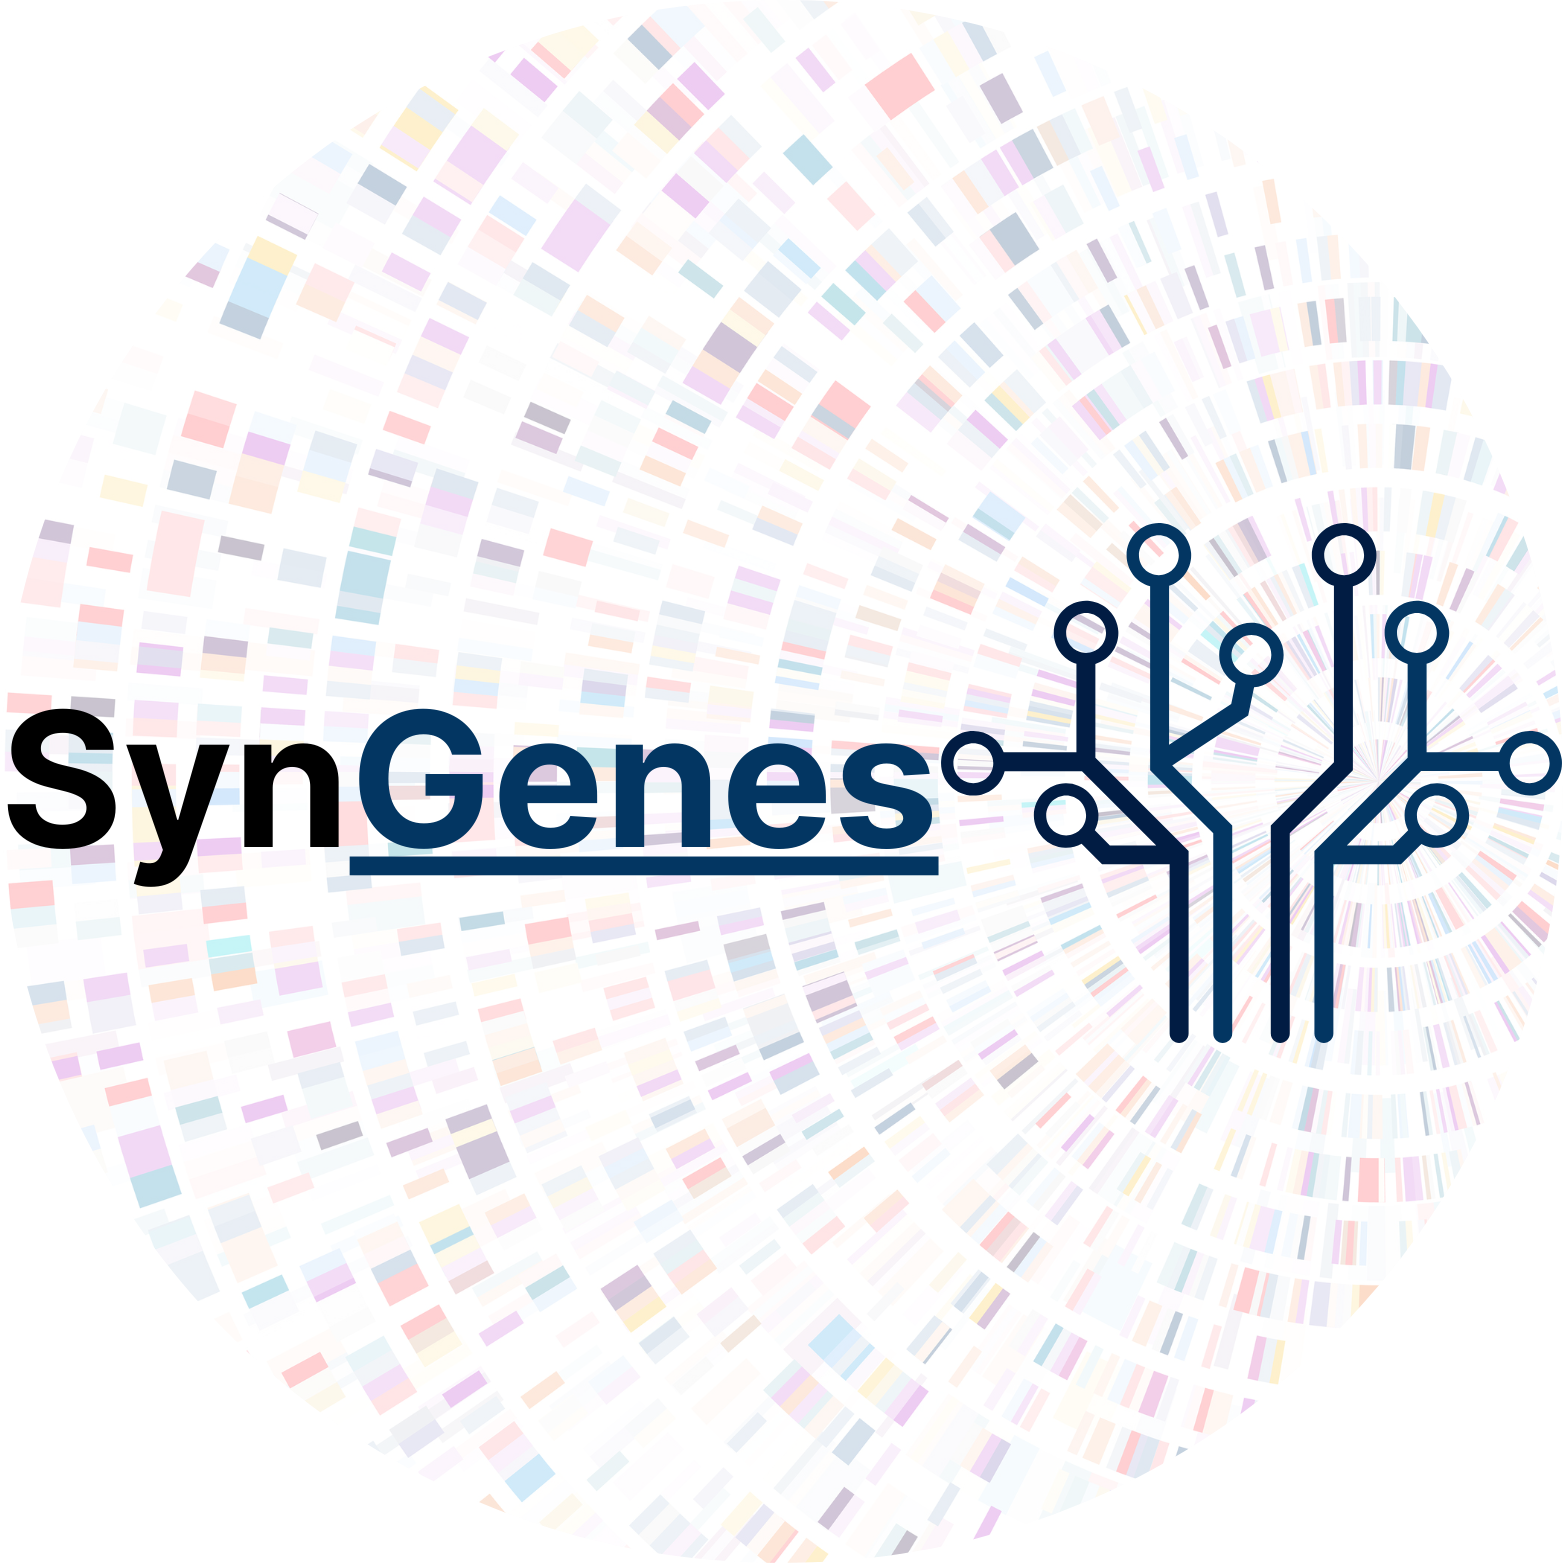
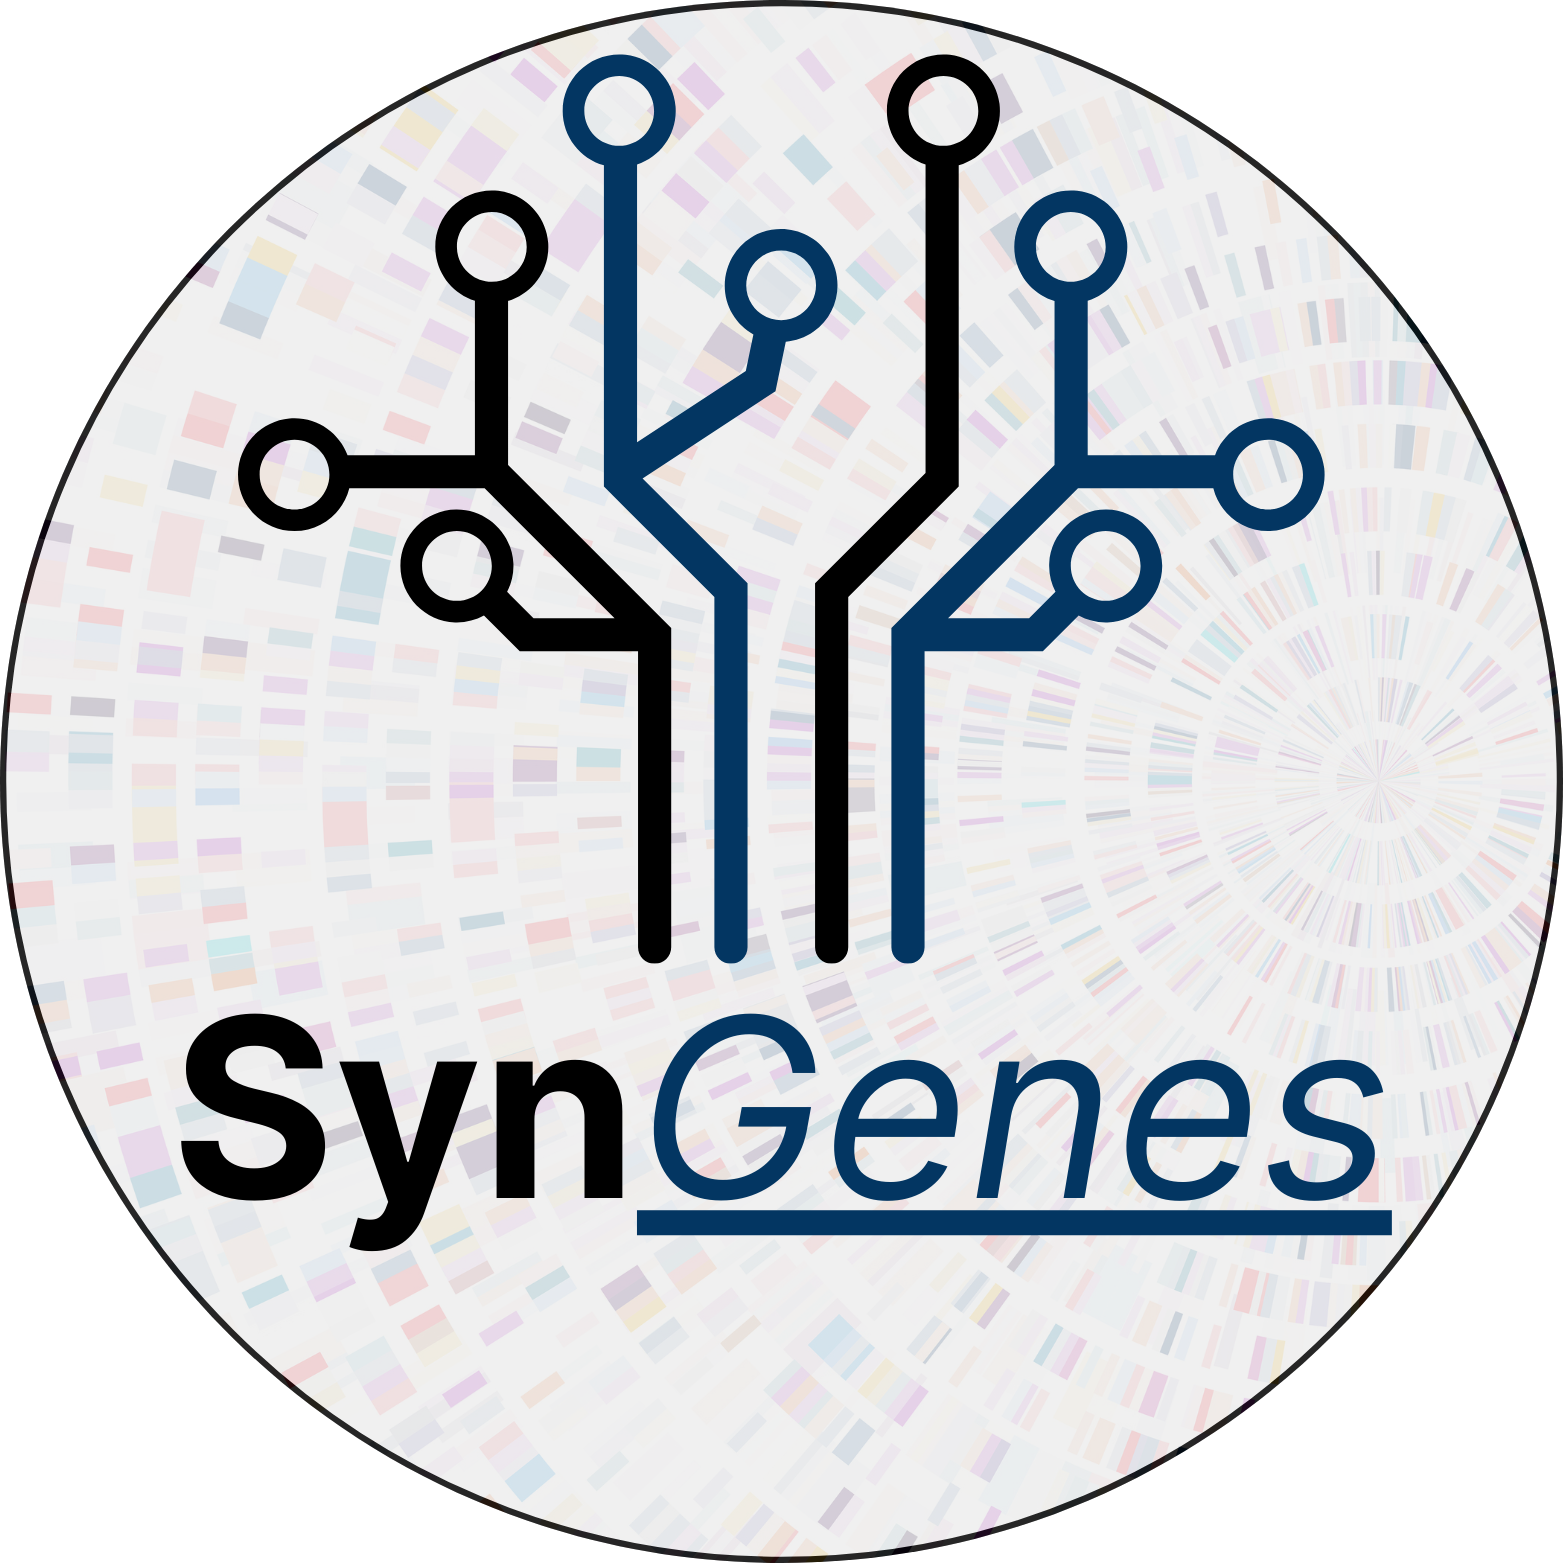
Add files via upload

diff --git a/docs/index.html b/docs/index.html
@@ -29,6 +29,15 @@
             <div class="text-center h4 mt-2 mb-2">Developed by</div>
             <div class="text-center h5 mt-2 mb-2"><span class="mark"><b><a href="https://twitter.com/lprabelo" target="_blank">Luan Rabelo</a></b> and <b><a href="https://twitter.com/mvallinoto01" target="_blank">Marcelo Vallinoto</a></b></span></div>
             <div class="text-center h5 mt-2 mb-2">v0.9.9 beta <i style="cursor: pointer;" data-bs-toggle="modal" data-bs-target="#About" class="fa-sharp fa-solid fa-circle-info fa-1x"></i>&nbsp;<i  style="cursor: pointer;" data-bs-toggle="modal" data-bs-target="#Donate" class="fa-solid fa-1x fa-mug-hot"></i></div>
+            <div class="row row-cols-1 text-center container d-grid-4 mx-auto">
+                <div class="col-12">
+                <img alt="GitHub" src="https://img.shields.io/github/license/luanrabelo/SynGenes?color=A0C49D&logoColor=000000&style=for-the-badge&namedLogo=readthedocs">
+                <img alt="GitHub Repo stars" src="https://img.shields.io/github/stars/luanrabelo/SynGenes?color=A0C49D&style=for-the-badge">
+                <img alt="GitHub release (latest by date)" src="https://img.shields.io/github/v/release/luanrabelo/SynGenes?color=A0C49D&style=for-the-badge">
+                <img alt="GitHub last commit" src="https://img.shields.io/github/last-commit/luanrabelo/SynGenes?color=A0C49D&style=for-the-badge">
+                <img src="https://img.shields.io/endpoint?url=https://hits.dwyl.com/luanrabelo/SynGenes.json?color=A0C49D&style=for-the-badge&label=Users" alt="Users" />
+                </div>
+            </div>
             <!-- <div class="text-center h5 mt-2 mb-2">Cite us: <i>aaaaaaaaaaaaaaaaaaaaaaaaaaaaaaaaaaaaaaaaaaaaaaaaaaaaaaaaaaaaaaaaaaa</i></div> -->
             
             <div class="d-grid gap-2 col-6 mx-auto mt-5">

diff --git a/SynGenes/SynGenes.py b/SynGenes/SynGenes.py
@@ -1,0 +1,164 @@
+import os 
+import sys
+import time
+
+class TerminalColors:
+            Header      = '\033[95m'
+            Blue        = '\033[94m'
+            Cyan        = '\033[96m'
+            Green       = '\033[92m'
+            Warning     = '\033[93m'
+            Fail        = '\033[91m'
+            End         = '\033[0m'
+            Bold        = '\033[1m'
+            Underline   = '\033[4m'
+try:
+    import requests
+    print(f"{TerminalColors.Green}Module 'Requests' found and imported!{TerminalColors.End}")
+except ImportError:
+    print(f"{TerminalColors.Fail}Module 'Requests' not found, please install it with: python3 -m pip install -U requests{TerminalColors.End}")
+    print(f"{TerminalColors.Warning}{TerminalColors.Underline}Do you want to install it now? (yes/no){TerminalColors.End}")
+    Choice = str(input())
+    if Choice.lower() == 'y' or Choice.lower() == 'yes':
+        os.system('python3 -m pip install -U requests')
+        print(f"{TerminalColors.Green}Module 'Requests' installed successfully!{TerminalColors.End}")
+        try:
+            import requests
+            print(f"{TerminalColors.Green}Module 'Requests' found and imported!{TerminalColors.End}")
+        except ImportError:
+            print(f"{TerminalColors.Fail}Module 'Requests' not found, please reinstall it with: python3 -m pip install -U requests{TerminalColors.End}")
+            sys.exit()
+    else:
+        print(f"{TerminalColors.Fail}Installation 'Requests' aborted!{TerminalColors.End}")
+
+try:
+    import pandas as pd
+    print(f"{TerminalColors.Green}Module 'Pandas' found and imported!{TerminalColors.End}")
+except ImportError:
+    print(f"{TerminalColors.Fail}Module 'Pandas' not found, please install it with: python3 -m pip install -U pandas{TerminalColors.End}")
+    print(f"{TerminalColors.Warning}{TerminalColors.Underline}Do you want to install it now? (yes/no){TerminalColors.End}")
+    Choice = str(input())
+    if Choice.lower() == 'y' or Choice.lower() == 'yes':
+        os.system('python3 -m pip install -U pandas')
+        print(f"{TerminalColors.Green}Module 'Pandas' installed successfully!{TerminalColors.End}")
+        try:
+            import pandas as pd
+            print(f"{TerminalColors.Green}Module 'Pandas' found and imported!{TerminalColors.End}")
+        except ImportError:
+            print(f"{TerminalColors.Fail}Module 'Pandas' not found, please reinstall it with: python3 -m pip install -U pandas{TerminalColors.End}")
+            sys.exit()
+    else:
+        print(f"{TerminalColors.Fail}Installation 'Pandas' aborted!{TerminalColors.End}")
+
+class SynGenes:
+    dataLink = "https://raw.githubusercontent.com/luanrabelo/SynGenes/stable/dbSynGenes/SynGenes.xlsx" # Link to SynGenes database in GitHub repository (stable branch)
+    cwdPath  = os.getcwd() # Current working directory path (where the script is running)
+    class TerminalColors:
+            Header      = '\033[95m'
+            Blue        = '\033[94m'
+            Cyan        = '\033[96m'
+            Green       = '\033[92m'
+            Warning     = '\033[93m'
+            Fail        = '\033[91m'
+            End         = '\033[0m'
+            Bold        = '\033[1m'
+            Underline   = '\033[4m'
+    
+    def __init__(self):
+        """
+        SynGenes: A Python class to download and update SynGenes database.
+
+        Parameters
+        ----------
+
+        """
+        
+        if not os.path.exists(f'{SynGenes.cwdPath}/SynGenes/SynGenes.xlsx') or not os.path.isfile(f'{SynGenes.cwdPath}/SynGenes/SynGenes.xlsx'):
+            print(f"{SynGenes.TerminalColors.Warning}{SynGenes.TerminalColors.Bold}SynGenes database not found in {SynGenes.cwdPath}{SynGenes.TerminalColors.End}!\n")
+            print(f"{SynGenes.TerminalColors.Warning}{SynGenes.TerminalColors.Bold}Creating folder 'SynGenes' in {SynGenes.cwdPath}{SynGenes.TerminalColors.End}")
+            try:
+                os.makedirs(f'{SynGenes.cwdPath}/SynGenes', exist_ok=True, mode=0o777)
+                print(f"{SynGenes.TerminalColors.Green}{SynGenes.TerminalColors.Bold}Folder 'SynGenes' created successfully ({time.strftime('%Y/%m/%d - %H:%M:%S')})!\n{SynGenes.TerminalColors.End}")
+            except:
+                print(f"{SynGenes.TerminalColors.Fail}{SynGenes.TerminalColors.Bold}Error creating folder 'SynGenes'! Verify if you have permission to create folders in this directory.{SynGenes.TerminalColors.End}")
+                sys.exit()
+            print(f'{SynGenes.TerminalColors.Warning}{SynGenes.TerminalColors.Bold}Downloading SynGenes database from https://github.com/luanrabelo/SynGenes, please wait...{SynGenes.TerminalColors.End}')
+            FileName = f'{SynGenes.cwdPath}/SynGenes/SynGenes.xlsx'
+            download = requests.get(SynGenes.dataLink, stream=True)
+            if download.ok:
+                with open(FileName, 'wb') as f:
+                    for chunk in download.iter_content(chunk_size=1024*16):
+                        if chunk:
+                            f.write(chunk)
+                            f.flush()
+                            os.fsync(f.fileno())
+                print(f'{SynGenes.TerminalColors.Green}{SynGenes.TerminalColors.Bold}Downloaded SynGenes database successfully ({time.strftime("%Y/%m/%d - %H:%M:%S")})!\n{SynGenes.TerminalColors.End}')
+            else:
+                print(f'{SynGenes.TerminalColors.Fail}{SynGenes.TerminalColors.Bold}Download SynGenes database failed: status code {download.status_code} - {download.text}{SynGenes.TerminalColors.End}')
+                sys.exit()
+
+    def updateSynGenes(self):
+        if os.path.exists(f'{SynGenes.cwdPath}/SynGenes/SynGenes.xlsx') or os.path.isfile(f'{SynGenes.cwdPath}/SynGenes/SynGenes.xlsx'):
+            print(f"{SynGenes.TerminalColors.Warning}{SynGenes.TerminalColors.Bold}SynGenes database found in {SynGenes.cwdPath}{SynGenes.TerminalColors.End}!\n")
+            print(f"{SynGenes.TerminalColors.Warning}{SynGenes.TerminalColors.Bold}Removing old SynGenes database...{SynGenes.TerminalColors.End}")
+            try:
+                os.remove(f'{SynGenes.cwdPath}/SynGenes/SynGenes.xlsx')
+                print(f"{SynGenes.TerminalColors.Green}{SynGenes.TerminalColors.Bold}Old SynGenes database removed successfully!\n{SynGenes.TerminalColors.End}")
+            except:
+                print(f"{SynGenes.TerminalColors.Fail}{SynGenes.TerminalColors.Bold}Error removing old SynGenes database! Verify if you have permission to remove files in this directory.{SynGenes.TerminalColors.End}")
+                sys.exit()
+        else:
+            print(f"{SynGenes.TerminalColors.Warning}{SynGenes.TerminalColors.Bold}SynGenes database not found in {SynGenes.cwdPath}{SynGenes.TerminalColors.End}!\n")
+            print(f"{SynGenes.TerminalColors.Warning}{SynGenes.TerminalColors.Bold}Creating folder 'SynGenes' in {SynGenes.cwdPath}{SynGenes.TerminalColors.End}")
+            try:
+                os.makedirs('SynGenes', exist_ok=True, mode=0o777)
+                print(f"{SynGenes.TerminalColors.Green}{SynGenes.TerminalColors.Bold}Folder 'SynGenes' created successfully ({time.strftime('%Y/%m/%d - %H:%M:%S')})!\n{SynGenes.TerminalColors.End}")
+            except:
+                print(f"{SynGenes.TerminalColors.Fail}{SynGenes.TerminalColors.Bold}Error creating folder 'SynGenes'! Verify if you have permission to create folders in this directory.{SynGenes.TerminalColors.End}")
+                sys.exit()
+        print(f'{SynGenes.TerminalColors.Warning}{SynGenes.TerminalColors.Bold}Downloading SynGenes database from https://github.com/luanrabelo/SynGenes, please wait...{SynGenes.TerminalColors.End}')
+        file_name = f'{SynGenes.cwdPath}/SynGenes/SynGenes.xlsx'
+        download = requests.get(SynGenes.dataLink, stream=True)
+        if download.ok:
+            with open(file_name, 'wb') as f:
+                for chunk in download.iter_content(chunk_size=1024*16):
+                    if chunk:
+                        f.write(chunk)
+                        f.flush()
+                        os.fsync(f.fileno())
+            print(f'{SynGenes.TerminalColors.Green}{SynGenes.TerminalColors.Bold}Downloaded SynGenes database successfully ({time.strftime("%Y/%m/%d - %H:%M:%S")})!\n{SynGenes.TerminalColors.End}')
+        else:
+            print(f'{SynGenes.TerminalColors.Fail}{SynGenes.TerminalColors.Bold}Download SynGenes database failed: status code {download.status_code} - {download.text}{SynGenes.TerminalColors.End}')
+            sys.exit()
+
+    def FixGeneName(self, **kwargs):
+        GeneList = []
+        GeneList.clear()
+        FullName  = str(kwargs['geneName'])
+        Organelle = str(kwargs['type'])
+        if Organelle == 'mt':
+            df = pd.DataFrame(pd.read_excel(f'{SynGenes.cwdPath}/SynGenes/SynGenes.xlsx', sheet_name="Mitochondrial", dtype=str)).reset_index()
+        elif Organelle == 'cp':
+            df = pd.DataFrame(pd.read_excel(f'{SynGenes.cwdPath}/SynGenes/SynGenes.xlsx', sheet_name="Chloroplast", dtype=str)).reset_index()
+        else:
+            print(f"{SynGenes.TerminalColors.Fail}{SynGenes.TerminalColors.Bold}Error! Organelle {Organelle} not found in SynGenes database!{SynGenes.TerminalColors.End}")
+            sys.exit()
+        ListFullName  = df['Full Name'].values.tolist()
+        ListShortName = df['Short Name'].values.tolist()
+        print(f"{SynGenes.TerminalColors.Warning}{SynGenes.TerminalColors.Bold}Searching for '{FullName}' in SynGenes database...{SynGenes.TerminalColors.End}")
+        if FullName in ListFullName:
+            Local  = ListFullName.index(FullName)
+            ShortName = ListShortName[Local]
+            print(f"{SynGenes.TerminalColors.Green}{SynGenes.TerminalColors.Bold}Gene '{FullName}' found in SynGenes database!{SynGenes.TerminalColors.End}")
+            print(f"{SynGenes.TerminalColors.Warning}{SynGenes.TerminalColors.Bold}Gene '{FullName}' renamed to '{ShortName}'!{SynGenes.TerminalColors.End}")
+        else:
+            ShortName = FullName
+            print(f"{SynGenes.TerminalColors.Fail}{SynGenes.TerminalColors.Bold}'{ShortName}' not found in SynGenes database{SynGenes.TerminalColors.End}")
+            print(f"{SynGenes.TerminalColors.Warning}{SynGenes.TerminalColors.Bold}Adding '{ShortName}' to SynGenes.log{SynGenes.TerminalColors.End}")
+            f = open(f"{SynGenes.cwdPath}SynGenes.log", "a+")
+            f.write(f"{ShortName}\n")
+            f.close()
+            print(f"{SynGenes.TerminalColors.Green}{SynGenes.TerminalColors.Bold}Gene '{ShortName}' added to SynGenes.log{SynGenes.TerminalColors.End}")
+        ListFullName.clear()
+        ListShortName.clear()
+        return str(ShortName)

diff --git a/setup.py b/setup.py
@@ -1,0 +1,21 @@
+from setuptools import setup
+
+with open("README.md", "r") as fh:
+    Readme = fh.read()
+
+setup(
+    name = 'SynGenes',
+    version = '1.0.2',
+    description = 'SynGenes is a Python class for standardizing gene nomenclatures, this class is capable of recognizing and converting the different nomenclature variations into a standardized form.',
+    long_description = Readme,
+    long_description_content_type="text/markdown",
+    author = 'Luan Rabelo',
+    author_email = 'luanrabelo@outlook.com',
+    maintainer = 'Luan Rabelo',
+    maintainer_email = 'luanrabelo@outlook.com',
+    url='https://github.com/luanrabelo/SynGenes',
+    download_url='https://github.com/luanrabelo/SynGenes',
+    packages=['SynGenes'],
+    license='MIT License',
+    keywords='SynGenes Genes Bioinformatics Synonymous',
+    install_requires=['requests', 'pandas', 'openpyxl'],)

diff --git a/SynGenes/__init__.py b/SynGenes/__init__.py
@@ -1,0 +1,1 @@
+from .SynGenes import SynGenes

diff --git a/README.md b/README.md
@@ -1,18 +1,2 @@
-# Welcome to SynGenes
-
-> SynGenes is a repository of synonymous genes. Our database provides a comprehensive collection of gene synonyms and alternate names, allowing for easy cross-referencing and improved understanding of genetic information. Our collection is available in different file formats such as CSV, TSV and Excel.
-
-> Our aim is to improve the efficiency and accuracy of gene-based research by providing a reliable source of synonyms for genes and other genetic nomenclature. Additionally, SynGenes allows for standardization of gene names, facilitating phylogenetic analyses.
-
-> SynGenes is open to contributions, so feel free to submit any updates or additions to our database.
-
-> We hope you find SynGenes to be a valuable resource in your genetic research.
-
-> You can find the data and files on our Github page.
-
-> Our data can be easily integrated into your Python scripts using popular libraries such as pandas and numpy. Here's an example of how to use SynGenes with Python:
-
-~~~
-import pandas as pd
-import requests
-~~~
+<p style="text-align: center;"><img src="https://raw.githubusercontent.com/luanrabelo/SynGenes/stable/docs/assets/SynGenes.png" alt="SynGenes" width="25%"></p>
+<h1 style="text-align: center;"><b>Syn</b><i>Genes</i></h1>
